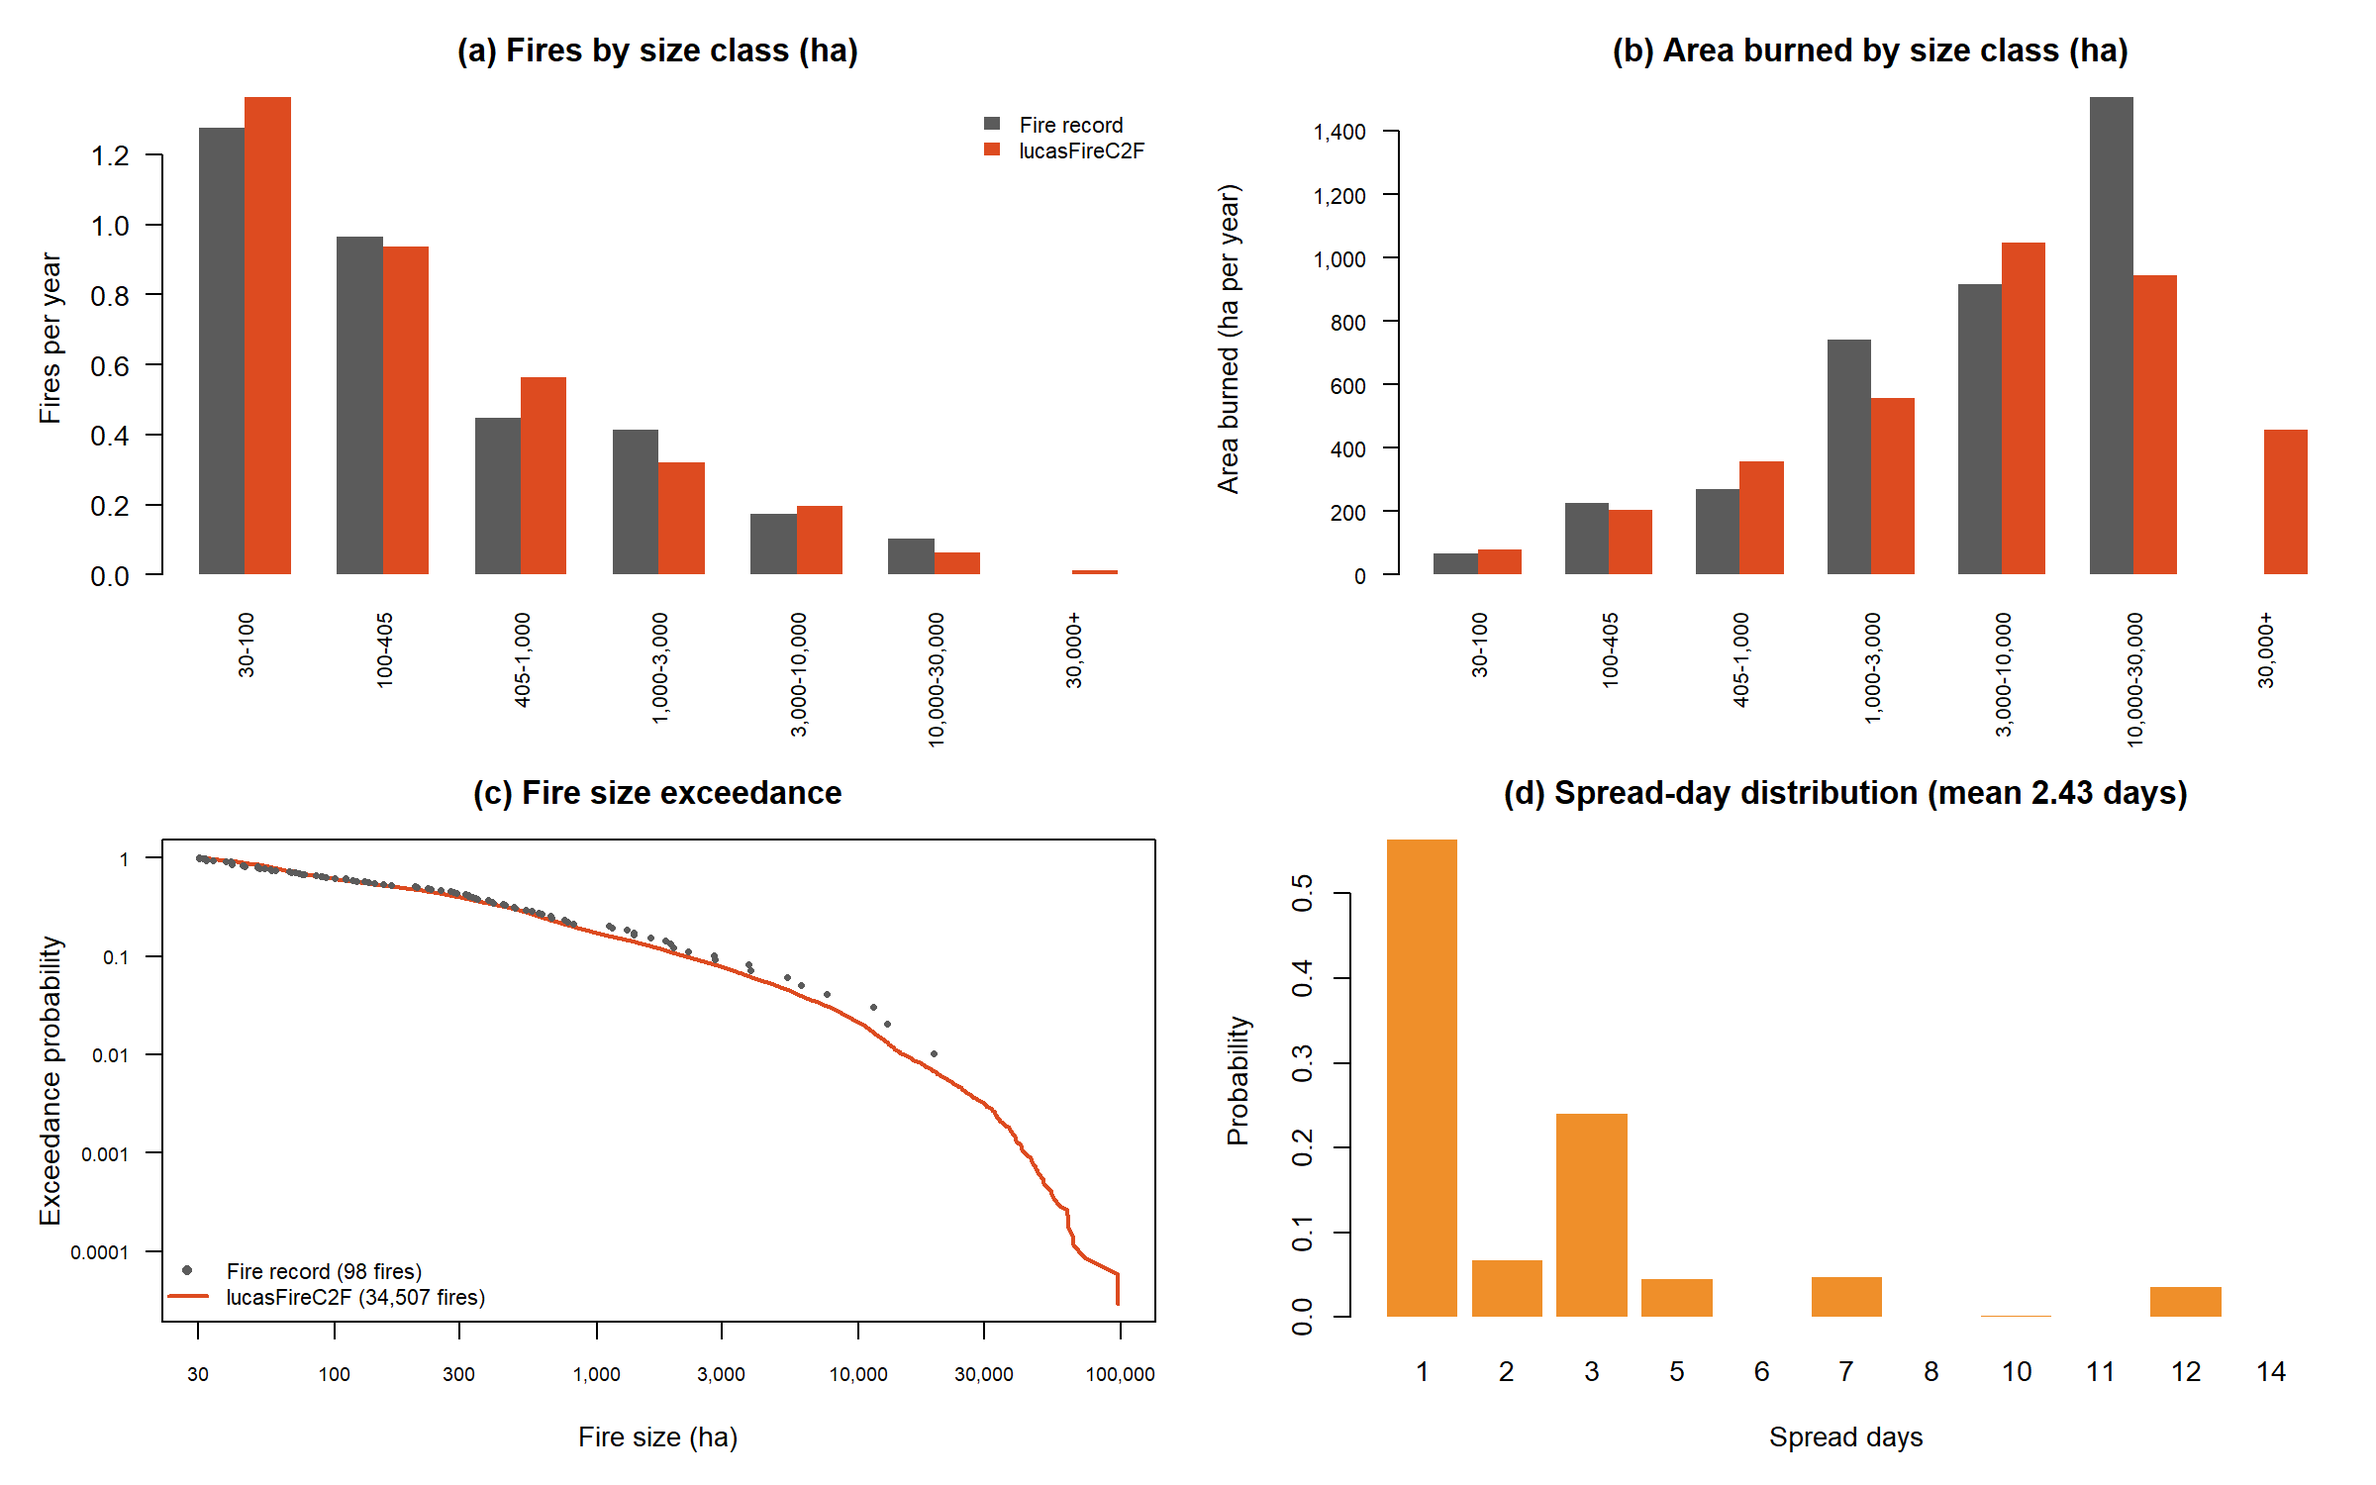
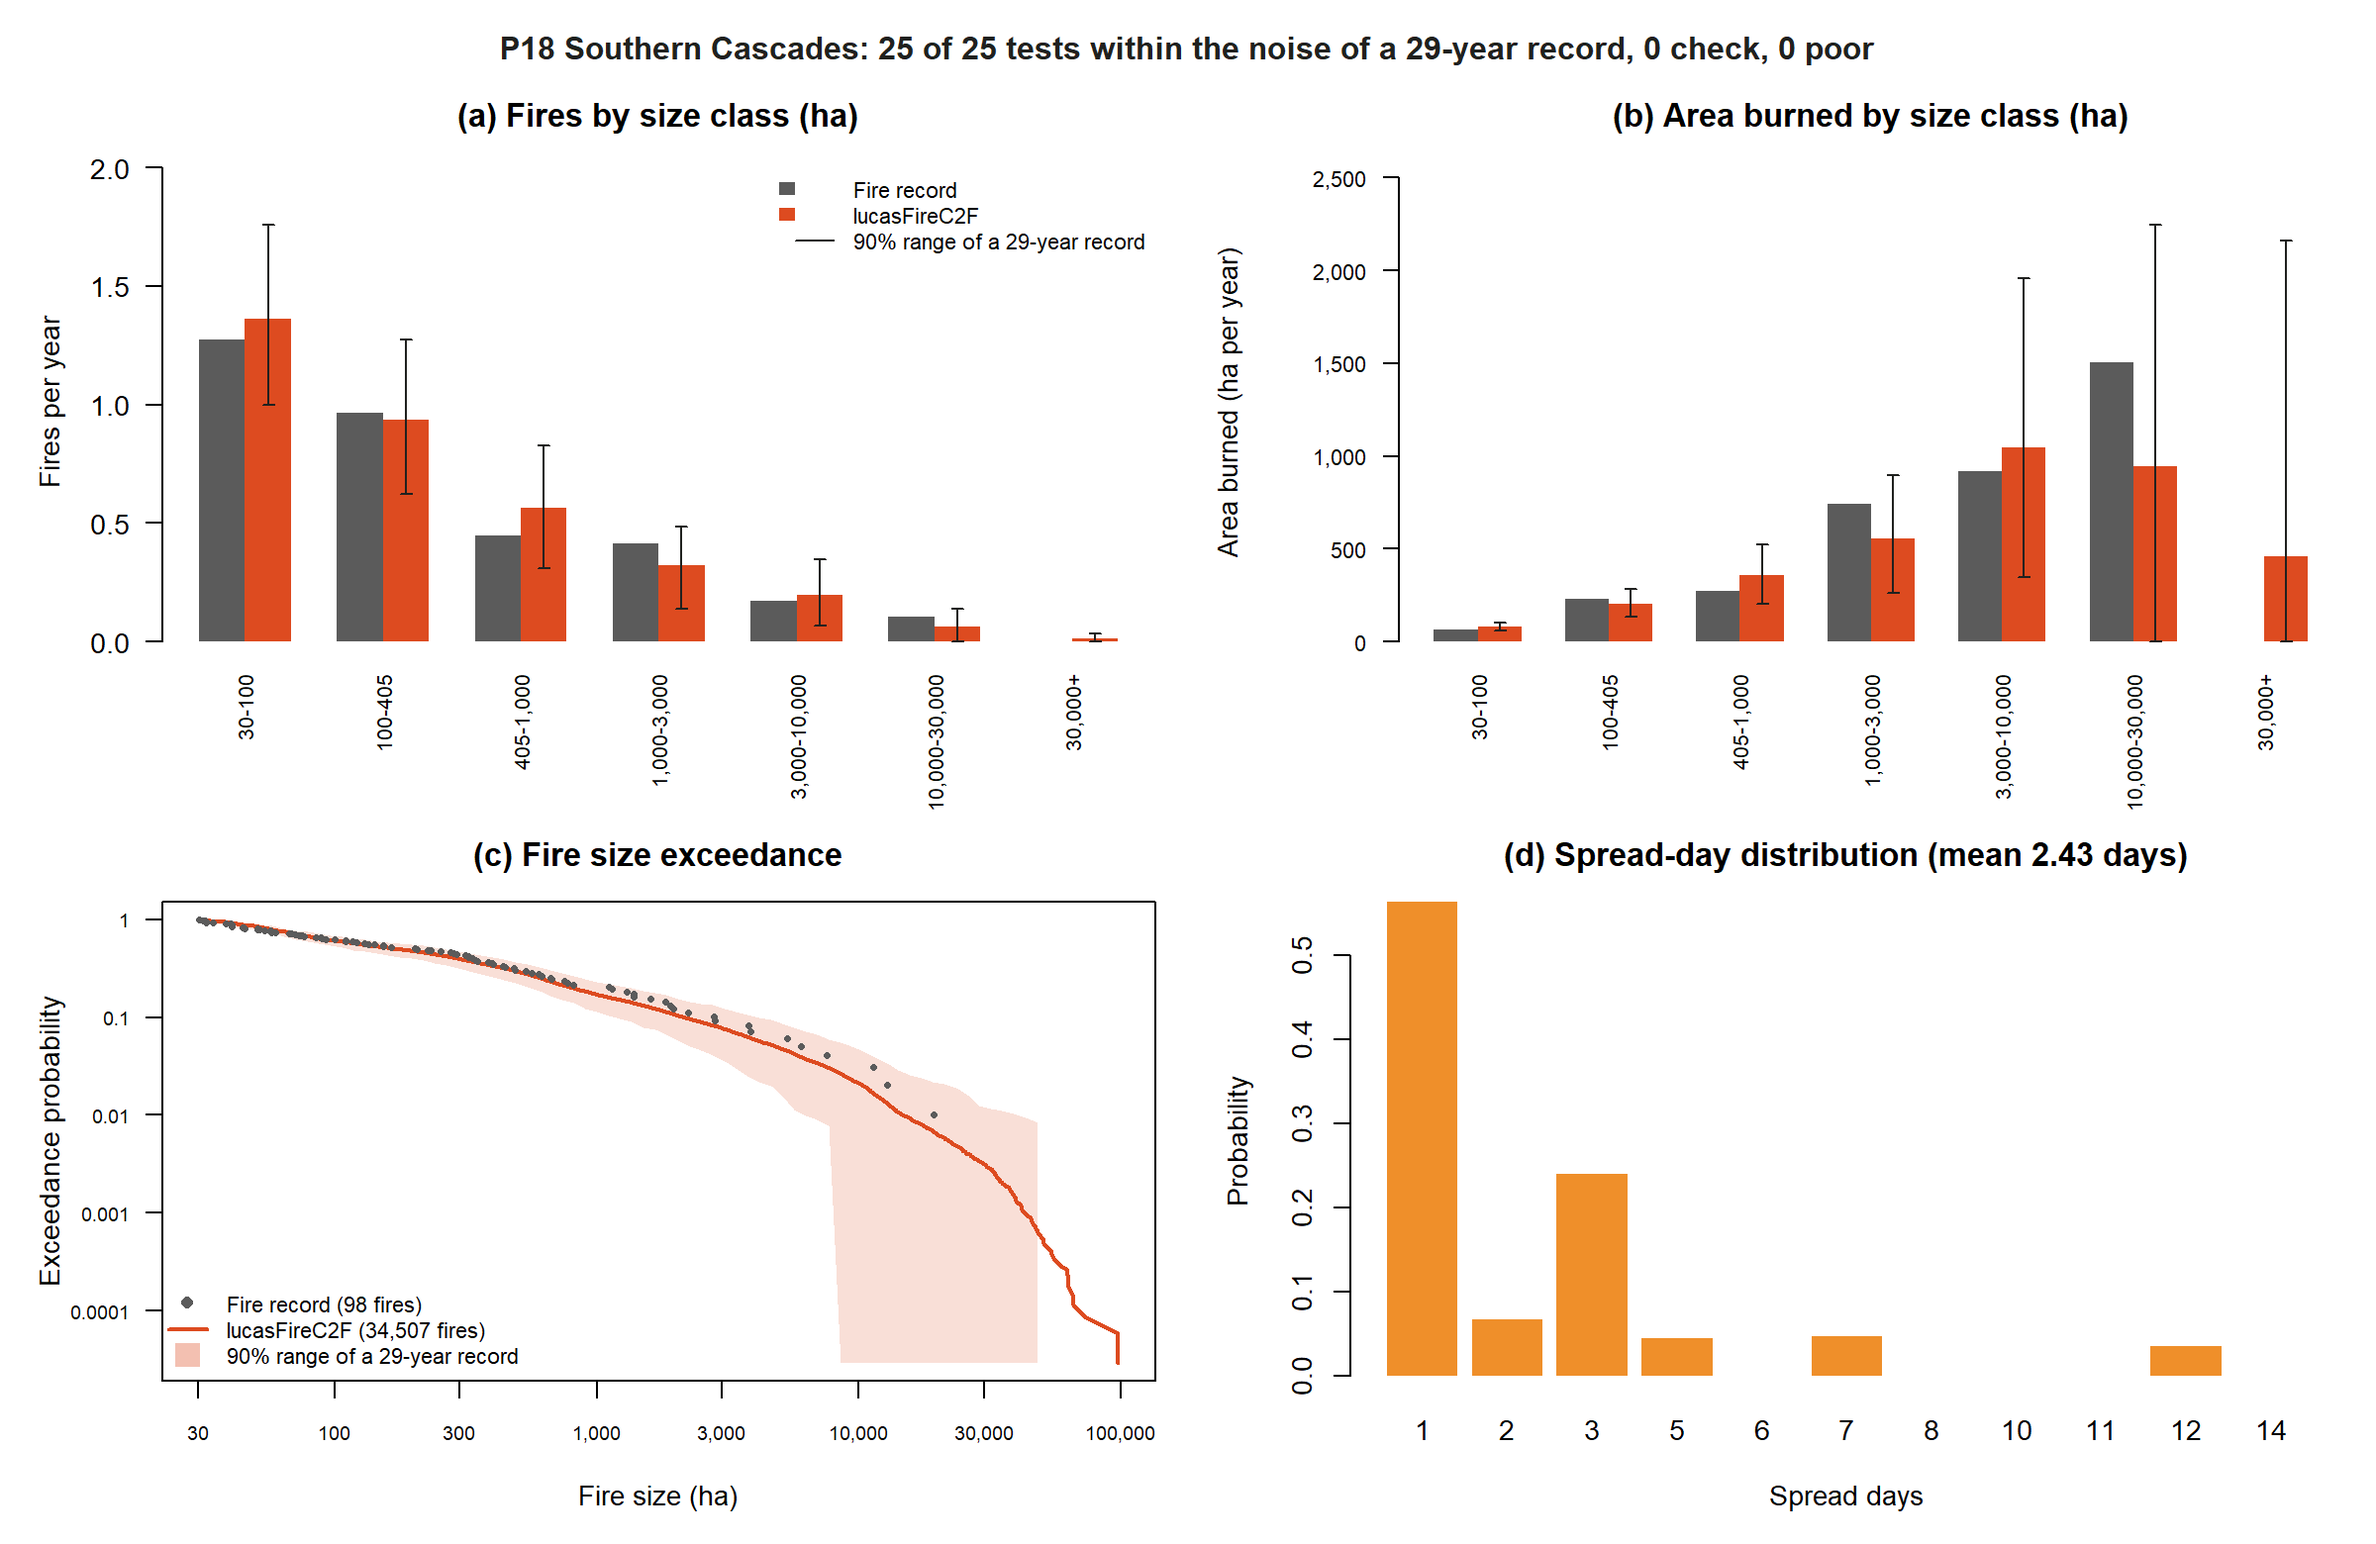
2.4.0: C6 judges scores against the noise of a short record and draws Fig6
C6 now scores every test against the range a record as long as the real one
would fall in if the model were right: it draws 1,000 sets of record-length
seasons from the run (seeded) and scores each as it scores the record. Each
row of Scores Against Fire Records gets Model Range Low/High (5-95%) and a
verdict: within noise, check (inside 0.5-99.5%) or poor. Drawing from the
model's seasons, not the record's years, lets a size class the record never
saw be judged fairly.

C6 also draws Fig6 (fires and area by size class with the model range as
whiskers, size exceedance with the range as a band, spread days) into Report
Figures, so every scored run carries its calibration figure without stage R.
Stage R draws the same figure from the shared code in report.R.

Schema update 2.4 adds the three OutputScore columns. Tested on Demo P18:
check run (result 26) 37 of 39 within noise, the misses shrub-origin fires;
the uncalibrated seed run scores 19 of 25 poor. User guide 4.7 and 5.6
describe the in-sample gate, the noise test, where the figure is kept and
how to read the P18 example.

diff --git a/docs/user-guide/lucasFireC2F-User-Guide.md b/docs/user-guide/lucasFireC2F-User-Guide.md
@@ -1,6 +1,6 @@
 # lucasFireC2F User Guide
 
-For lucasFireC2F 2.3.0. Exported 2 October 2026 from the working copy of the guide.
+For lucasFireC2F 2.4.0. Exported 16 October 2026 from the working copy of the guide.
 
 ## About this guide
 
@@ -975,7 +975,7 @@ The fitted curve is written to this result's **Spread-Day Distribution** sheet. 
 | Calibration: Fit Summary | Burning Hours, Max CDF Gap (KS), Area Ratio and Mean Spread Days, one row per spread-day curve | 2 h, KS 0.069, area ratio 1.00 |
 | Calibration: Size Distribution Fit | Observed and fitted share of fires in each size class (the table above) |  |
 
-**Scores Against Fire Records stays empty here, by design.** C5's numbers come from reweighting the seed fires, so they show how well the curve can fit, not what the model does with it. The check is the Run scenario (chapter 5): it grows new fires with the fitted curve, and C6 scores them against the record (5.6). If those scores hold, the same Run scenario with more seasons is the finished model (6.4); the only differences are the number of seasons and the random draws.
+**Scores Against Fire Records stays empty here, by design.** C5's numbers come from reweighting the seed fires, so they show how well the curve can fit, not what the model does with it. Use them as a gate: if KS is well over 0.10, the area ratio far from 1 or a whole size class missed, the check run will not do better, so fix the fit first (4.4, 4.5). The check is the Run scenario (chapter 5): it grows new fires with the fitted curve, and C6 scores them against the record (5.6). If those scores hold, the same Run scenario with more seasons is the finished model (6.4); the only differences are the number of seasons and the random draws.
 
 ## 5. Run the model (Run)
 
@@ -1066,9 +1066,46 @@ C6 compares the simulated fires with the record, by size class, by cause and by 
 | 30,000 and over | 0.00 | 0.01 | 0 | 341 |
 | **Total** | **3.38** | **3.46 (1.02x)** | **3,727** | **3,519 (0.94x)** |
 
-The totals are what the calibration aimed at: fires per year within 2% and area within 6%. Classes are within about 20%, except the largest recorded class, which is short. With 29 years of record the largest classes rest on a handful of fires (three fires of 10,000-30,000 ha), so differences there are within chance.
+The totals are what the calibration aimed at: fires per year within 2% and area within 6%. Classes are within about 20%, except the largest recorded class, which is short. Whether such gaps matter is what the noise test below decides.
 
-**By cause**, simulated human fires burn 1.77 times their recorded area and lightning fires 0.59 times: recorded lightning fires average 1,652 ha against 652 ha for human fires, while one spread-day curve gives both causes the same days. This is the cost of fitting one curve. With enough large fires, a curve per cause (Spread Days Fitted By: Cause) would separate them. **By origin vegetation**, the shrub and hardwood rows rest on a few recorded fires; ratios of 2 to 70 there are noise.
+**Is the calibration acceptable?** Since version 2.4.0, C6 judges every test against the noise of a record as short as the real one. A 29-year record is one draw of 29 seasons. C6 draws 1,000 sets of 29 seasons from the run itself and scores each set as it scores the record. The middle 90% of those draws is the **model range**: where a 29-year record would fall by chance if the model were right. The sheet's last three columns give the range and a verdict:
+
+| Verdict | The record falls | What to do |
+| --- | --- | --- |
+| within noise | inside the 90% range | Nothing: the record cannot tell this apart from the model |
+| check | outside the 90% range, inside the 99% range | Look at it; about 1 test in 10 lands here by chance alone |
+| poor | outside the 99% range | The model and the record disagree; revisit the fit (chapter 4) |
+
+C6 also draws the figure below, **Fig6\_fire\_sizes.png**, so every scored run carries it without stage R. The whiskers on the model's bars and the band in panel (c) are the 90% model range; any class outside it is labelled. The title counts the verdicts.
+
+**Where to find it.** The figure belongs to the Run result, not the Run scenario:
+
+| Where | How |
+| --- | --- |
+| Studio | Open the Run result (double-click it in the Explorer), then on the **LUCAS Fire (C2F-W)** tab choose **Results**, **Report Figures**. The row named Fire sizes and calibration holds the PNG |
+| Export tab | Select the Run result, open the **Export** tab and export **Report Figures** to a folder of your choice (6.3) |
+| On disk | `<library>.ssim.data\Scenario-<result id>\lucasFireC2F_OutputReportFigure\Fig6_fire_sizes.png`. For the example below: `F:\lucas-master\Models\lucasFireC2F Dev\lucasFireC2F-Demo.ssim.data\Scenario-26\lucasFireC2F_OutputReportFigure\Fig6_fire_sizes.png` |
+
+The same numbers are in the result's **Scores Against Fire Records** sheet (columns Model Range: Low, Model Range: High and Record vs Model Range) and at the end of C6's lines in the Run Log. The sheet and the log also hold the by-cause and by-vegetation tests, which the figure does not draw.
+
+![P18's check run against the 1992-2020 record, with the noise of a 29-year record.](figures/05-05-check-run-fire-sizes.png)
+
+*P18's check run (result 26): 37 of 39 tests within noise. The two misses are shrub-origin fires: 170 ha a year simulated against 2 recorded (check), and a mean size of 1,187 ha against 35 (poor). The 10,000-30,000 ha area bar looks short, but a 29-year record of that class varies from 0 to 2,480 ha a year under this model, so the record's 1,506 ha is well inside. For contrast, the seed run scored the same way gets 19 of its 25 size and cause tests poor.*
+
+**Reading the P18 example.** The calibration passes:
+
+- **Title.** 37 of 39 tests within noise, 1 check, 1 poor. Both misses are in the sheet, not the figure: shrub-origin fires (below).
+- **(a) Fires by size class.** Every recorded bar sits inside the model's whisker, and the totals agree (3.38 fires a year recorded, 3.46 simulated). The fire count is what C3 fitted, so this panel mostly confirms the ignitions.
+- **(b) Area by size class.** The biggest gap is 10,000-30,000 ha: 1,506 ha a year recorded against 1,009 simulated. The whisker runs from 0 to 2,480 ha, because three fires in 29 years cannot pin that class down. The model also burns 341 ha a year in fires over 30,000 ha, which the 1992-2020 record lacks. It goes 29 years without one often enough for that to be within noise, and the 2021 Dixie Fire shows such fires happen here.
+- **(c) Fire size exceedance.** The recorded fires stay inside the band at every size. Above about 1,000 ha they run along its upper edge, so the record's large fires are a little bigger than the model's, though not beyond chance. The band drops to the axis past about 7,000 ha because many 29-year draws contain no fire that large.
+- **(d) Spread days.** The fitted curve (mean 2.43 days, 56% of fires burning one day) is the one read in 4.7; it is drawn here so the figure is a complete record of the calibration.
+- **What the sheet adds.** Shrub-origin fires average 1,187 ha in the model against 35 ha for the two recorded (poor), and burn 170 ha a year against 2 (check). With one curve for all fires, shrub-origin fires get the same spread days as timber fires. That is a known limit of this P18 setup (see By origin vegetation below), not a reason to reject the calibration.
+
+In a zone where several size classes or the exceedance points fall outside the range, go back to chapter 4: check the in-sample fit, the burning hours and how the spread days are stratified.
+
+Accept the calibration when the tests are within noise, with at most a scattered check. The verdicts say what the record can resolve, not that the model is right: in a small zone the ranges are wide, so a passing score is weak evidence.
+
+**By cause**, simulated human fires burn 1.77 times their recorded area and lightning fires 0.59 times: recorded lightning fires average 1,652 ha against 652 ha for human fires, while one spread-day curve gives both causes the same days. The noise test still marks both within noise: under this model a 29-year record of lightning area ranges from 560 to 2,610 ha a year, so the gap may be chance. It may also be the cost of fitting one curve. With enough large fires, a curve per cause (Spread Days Fitted By: Cause) would separate them. **By origin vegetation**, the shrub and hardwood rows rest on a few recorded fires; the noise test finds hardwood within noise but marks shrub poor: the model's shrub-origin fires average 1,187 ha against 35 recorded, too large even for so few fires.
 
 #### Fire behaviour (stage 6)
 
@@ -1245,7 +1282,7 @@ Studio's maps are for checking a run; the figures for a report come from stage *
 | Fig3 Fire intensity | Conditional flame length, FLEP4, FLEP8 | Stage 6 |
 | Fig4 Crown fire | Crown and active crown fire when burning, annual crown-fire probability | Stage 6 |
 | Fig5 Hazard and risk | High-intensity burn probability, conditional and annual risk to potential structures, risk class | Stage 7 |
-| Fig6 Fire sizes | Fires and area by size class against the record, size exceedance, spread-day distribution | C6 |
+| Fig6 Fire sizes | Fires and area by size class against the record with the noise of a record as long as the real one, size exceedance, spread-day distribution (C6 draws it too, 5.6) | C6 |
 | Fig7 Validation | AUC and hottest-decile capture against WRC by period, fire effects by fuel group | C7, stage 6 |
 
 A figure whose stage did not run is left out.
